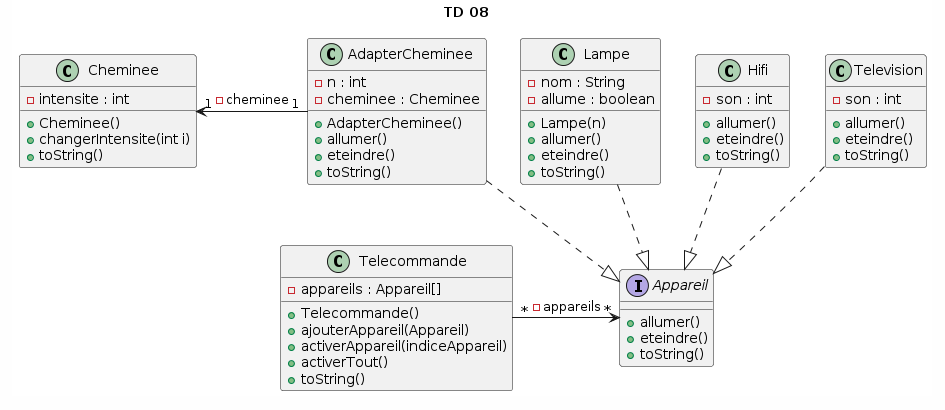
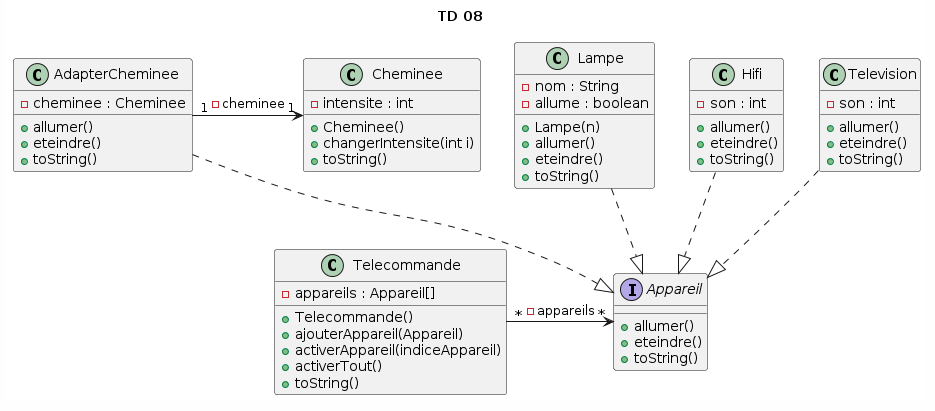
AdapterCheminee started + TD08 corrected

diff --git a/src/AdapterCheminee.java b/src/AdapterCheminee.java
@@ -1,0 +1,23 @@
+public class AdapterCheminee implements Appareils {
+
+    private Cheminee cheminee ;
+
+    public AdapterCheminee(){
+        this.cheminee = new Cheminee() ;
+    }
+
+    @Override
+    public void allumer() {
+        ...
+    }
+
+    @Override
+    public void eteindre() {
+        this.cheminee
+    }
+
+    @Override
+    public String toString() {
+        return super.toString();
+    }
+}
